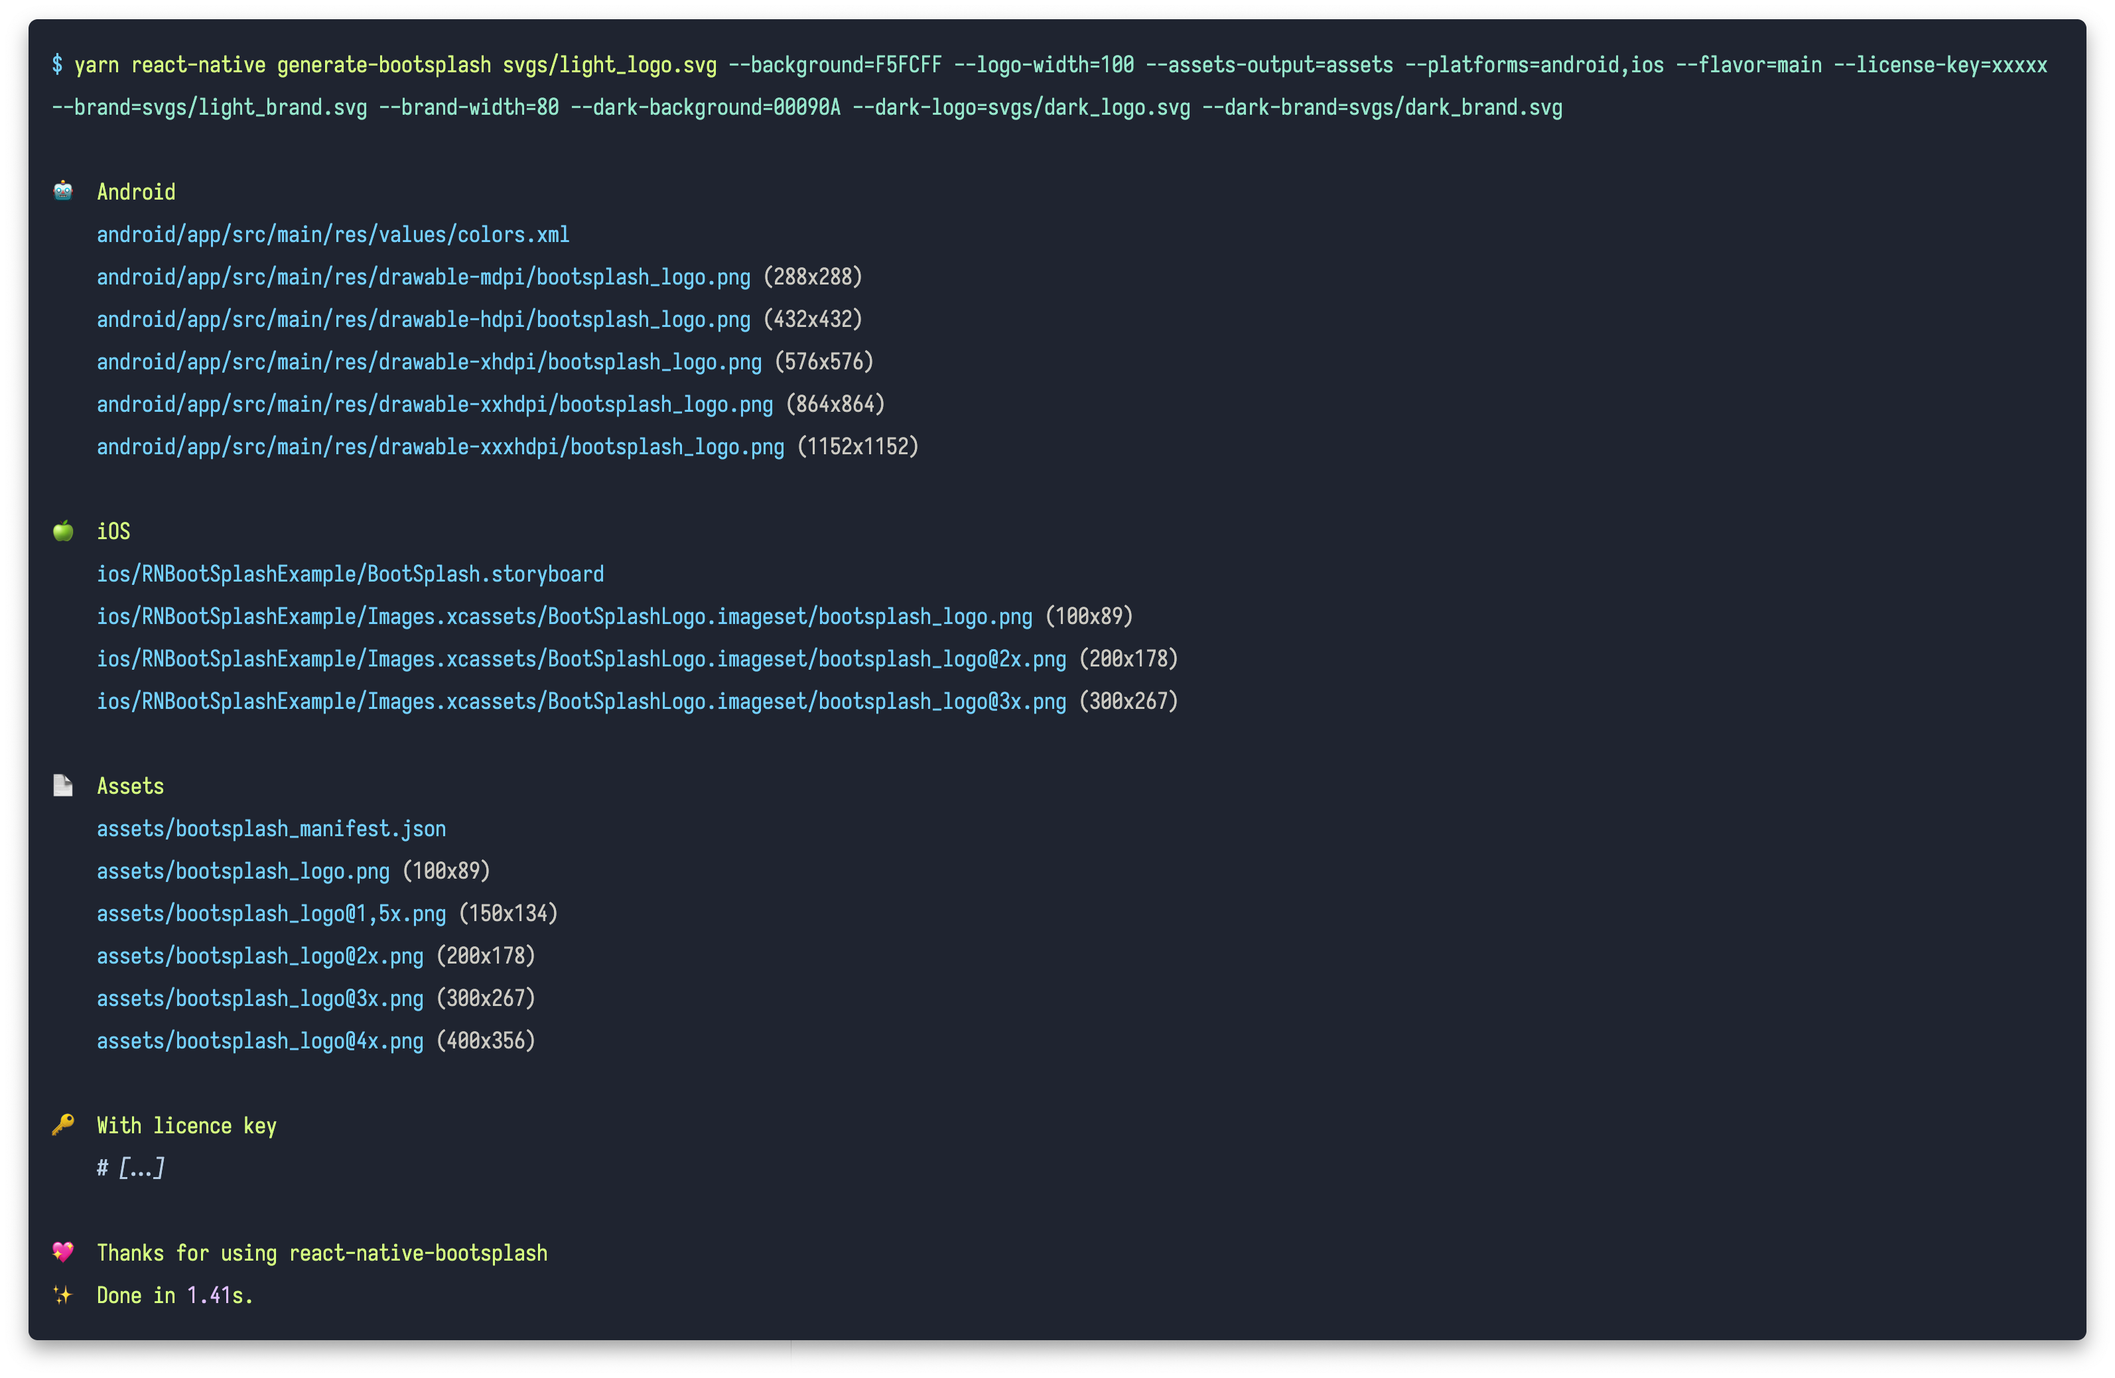
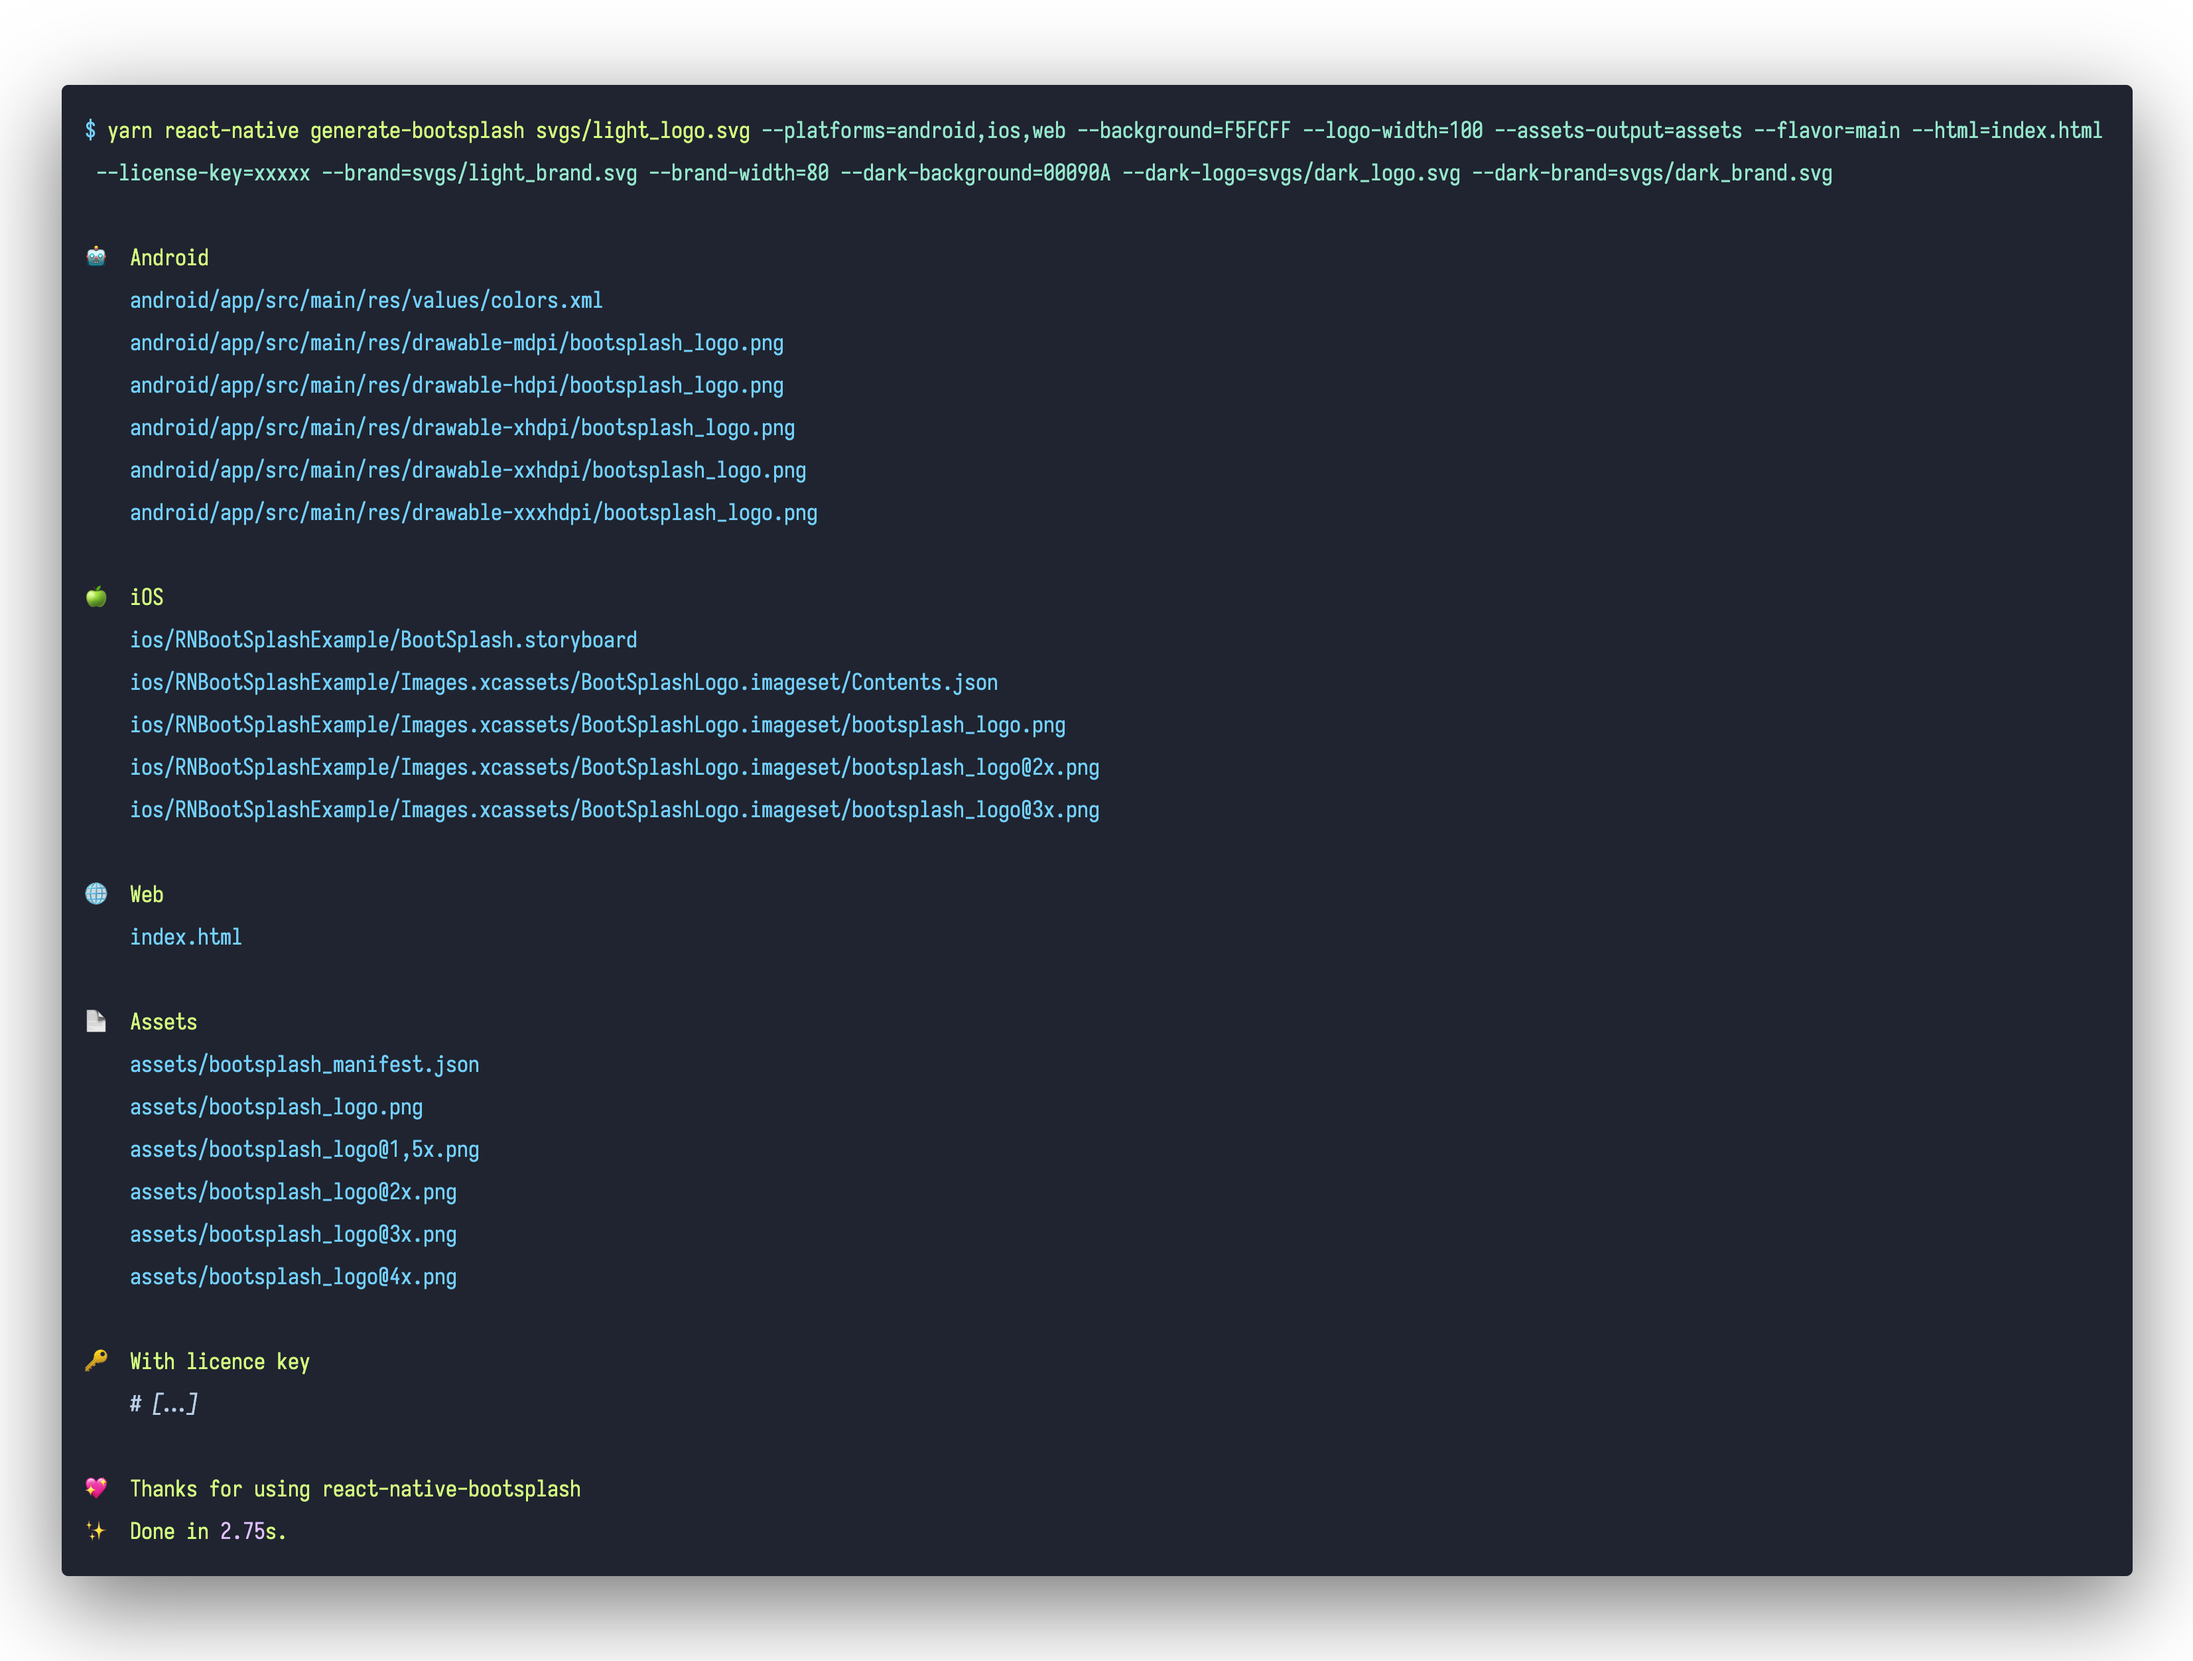
Add web in CLI generator screenshot

Changed region(s): [[0.0, 0.0, 0.9937, 0.9856]]

diff --git a/README.md b/README.md
@@ -175,9 +175,12 @@ android/app/src/main/res/drawable-xxhdpi/bootsplash_logo.png
 android/app/src/main/res/drawable-xxxhdpi/bootsplash_logo.png
 
 ios/RNBootSplashExample/BootSplash.storyboard
+ios/RNBootSplashExample/Images.xcassets/BootSplashLogo.imageset/Contents.json
 ios/RNBootSplashExample/Images.xcassets/BootSplashLogo.imageset/bootsplash_logo.png
 ios/RNBootSplashExample/Images.xcassets/BootSplashLogo.imageset/bootsplash_logo@2x.png
 ios/RNBootSplashExample/Images.xcassets/BootSplashLogo.imageset/bootsplash_logo@3x.png
+
+index.html
 
 # Only if --assets-output was specified
 assets/bootsplash_manifest.json
@@ -187,7 +190,7 @@ assets/bootsplash_logo@2x.png
 assets/bootsplash_logo@3x.png
 assets/bootsplash_logo@4x.png
 
-# + 31 files with license key 🔑 (brand images, dark mode versions…)
+# + 46 files with license key 🔑 (brand images, dark mode versions…)
 ```
 
 ![](./docs/cli_generator.png)
